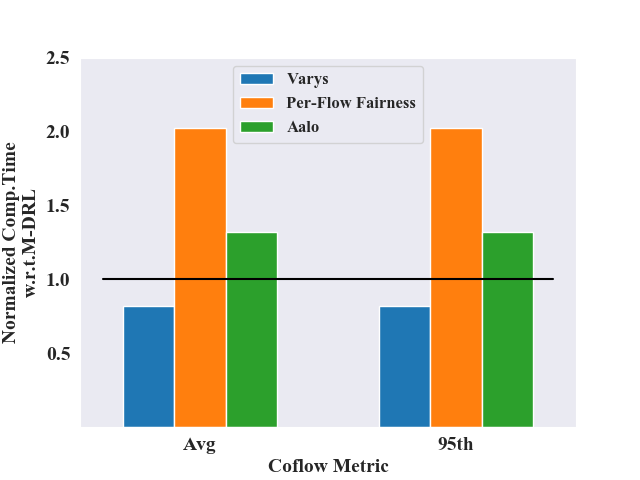
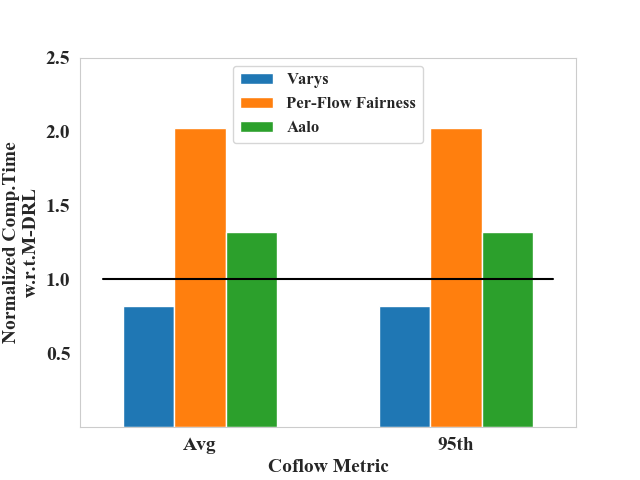
update

diff --git a/gym/paper.py b/gym/paper.py
@@ -41,7 +41,7 @@ def plot_CDF():
     plt.plot(x2, y2, alpha=0.9)
 
     plt.ylim([0, 1])
-    plt.yticks([0.5, 1], [0.5, 1])
+    plt.yticks([0, 0.5, 1], [0, 0.5, 1])
     plt.xlim([0, 7])
     plt.xticks(range(1,8), [r'10$^{%s}$'%(i) for i in range(1, 8)])
     # plt.text(2, 0, )
@@ -72,7 +72,7 @@ def compare_CCT():
     aalo = [bmk_ave["aalo"]/best_ave, bmk_ave["aalo"]/best_ave]
 
     import seaborn as sns    
-    sns.set_style("darkgrid", {'axes.grid' : False})
+    sns.set_style("whitegrid", {'axes.grid' : False})
     plt.figure("Comparision CCT")
     plt.rc("font", family="Times New Roman")
     plt.bar(x, varys, label="Varys", width=width)
@@ -134,12 +134,16 @@ def get_train_result():
     plt.figure("Training")
     plt.rc("font", family="Times New Roman")
     data_sm = util.smooth_value(data, smoothing=0.9)
-    plt.plot(x, data_sm, "-")
-    plt.plot(x, data, "-", alpha=0.35, color="g")
+    plt.plot(x, data_sm, "-", color="b")
+    plt.plot(x, data, "-", alpha=0.35, color="b")
 
     plt.legend(["DRL"])
+    plt.grid(linestyle="-.")
     plt.ylabel("Average CCT(seconds)", fontsize=12)
     plt.xlabel("training episodes", fontsize=12)
+    plt.ylim([30, 90])
+    plt.xlim([0, end])
+    plt.xticks(list(range(50, 400, 50)), list(range(50, 400, 50)))
 
     plt.savefig("doc/paper/Training.png")
 
